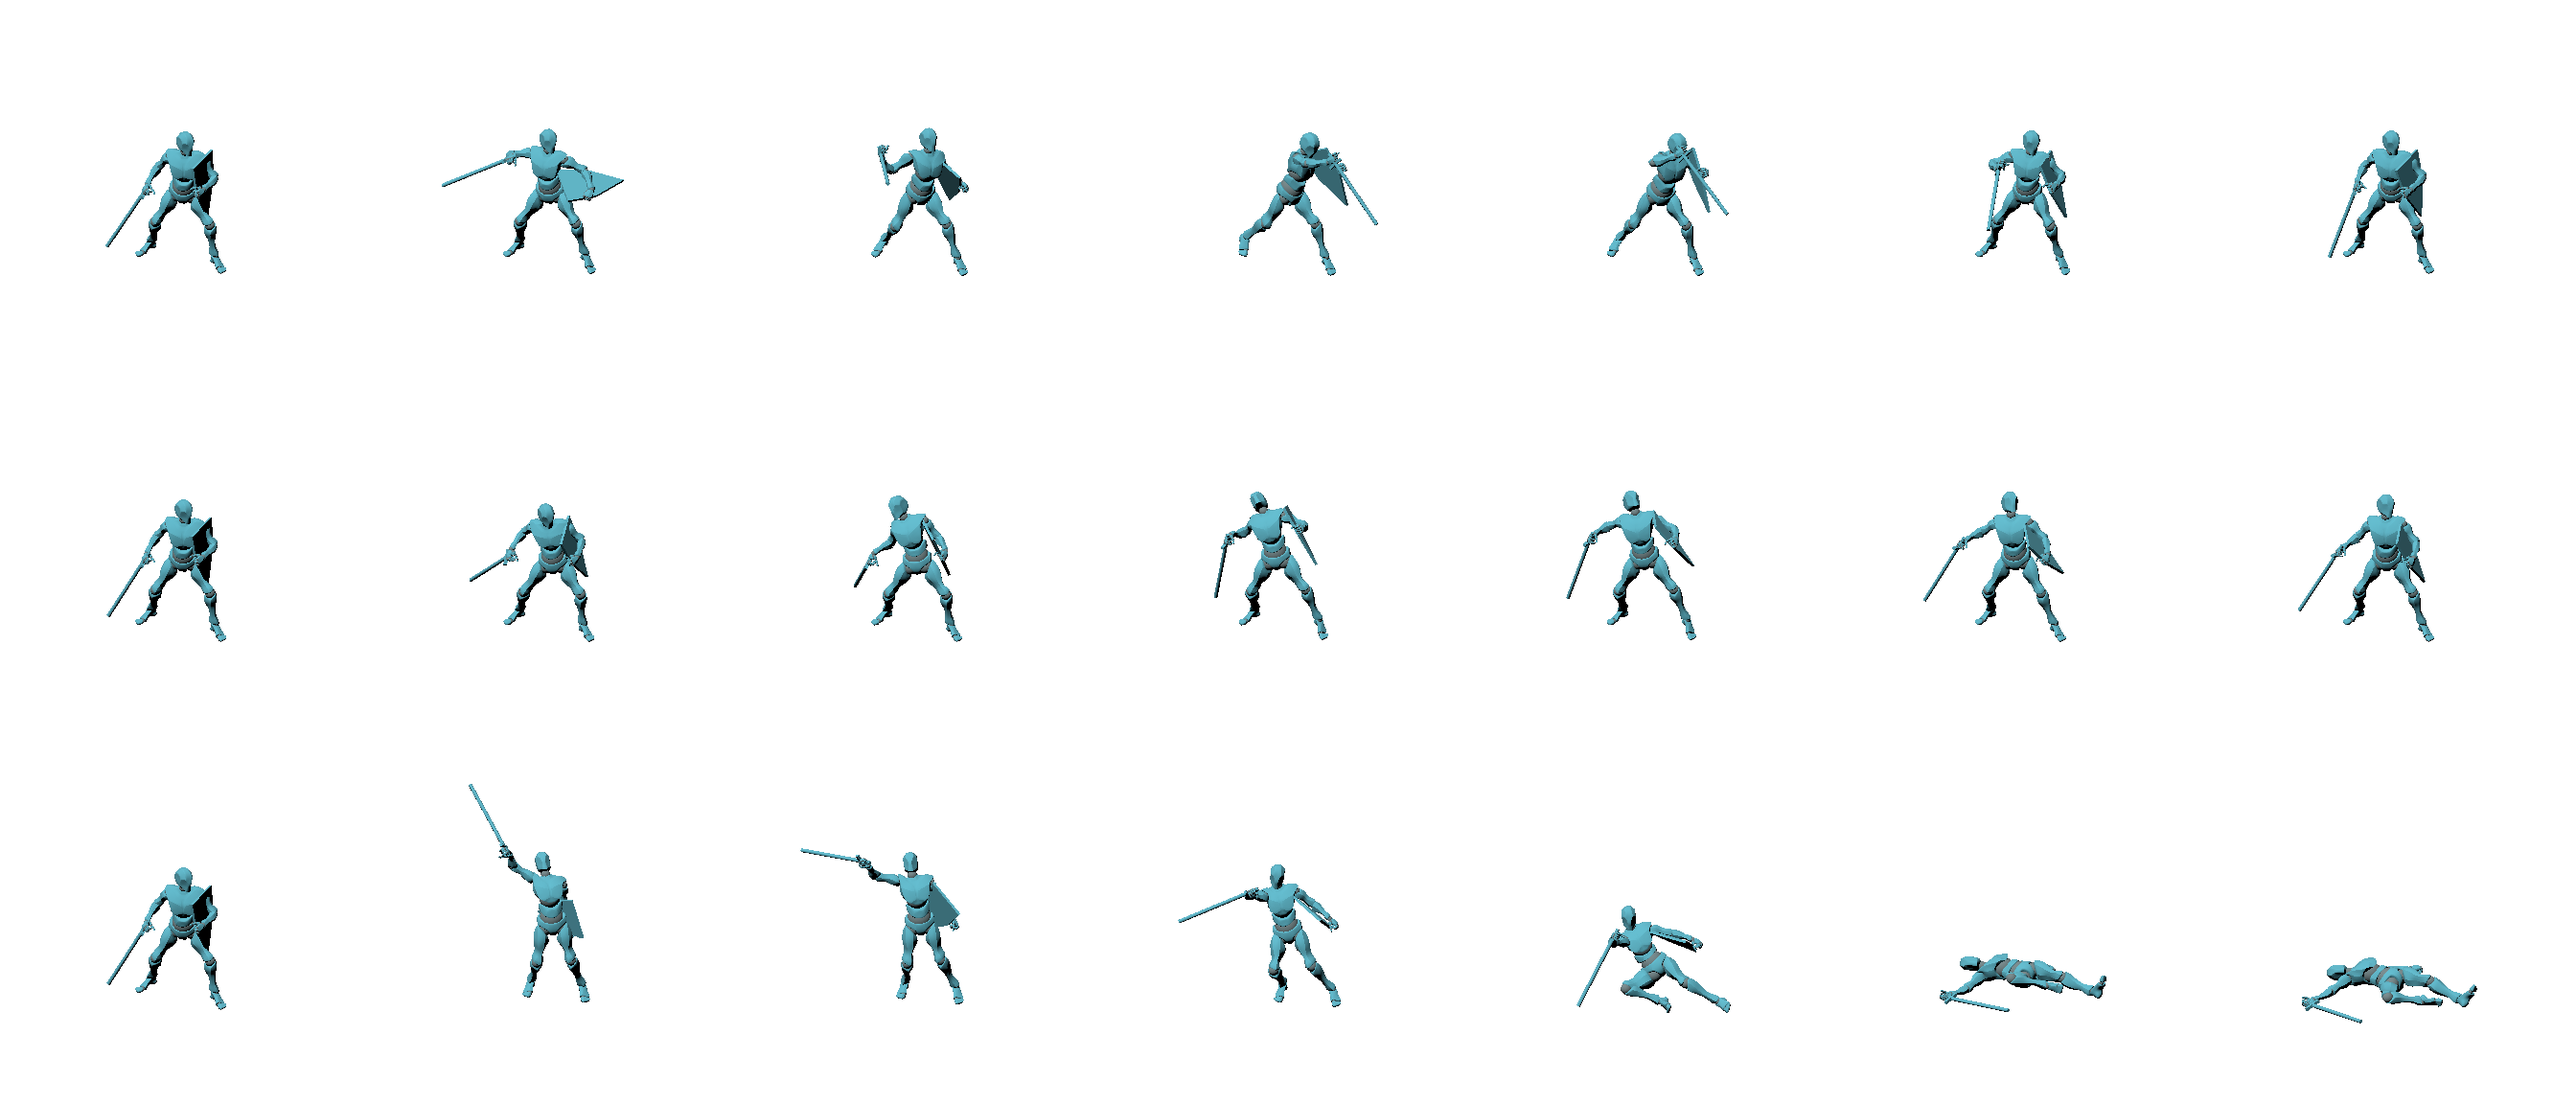
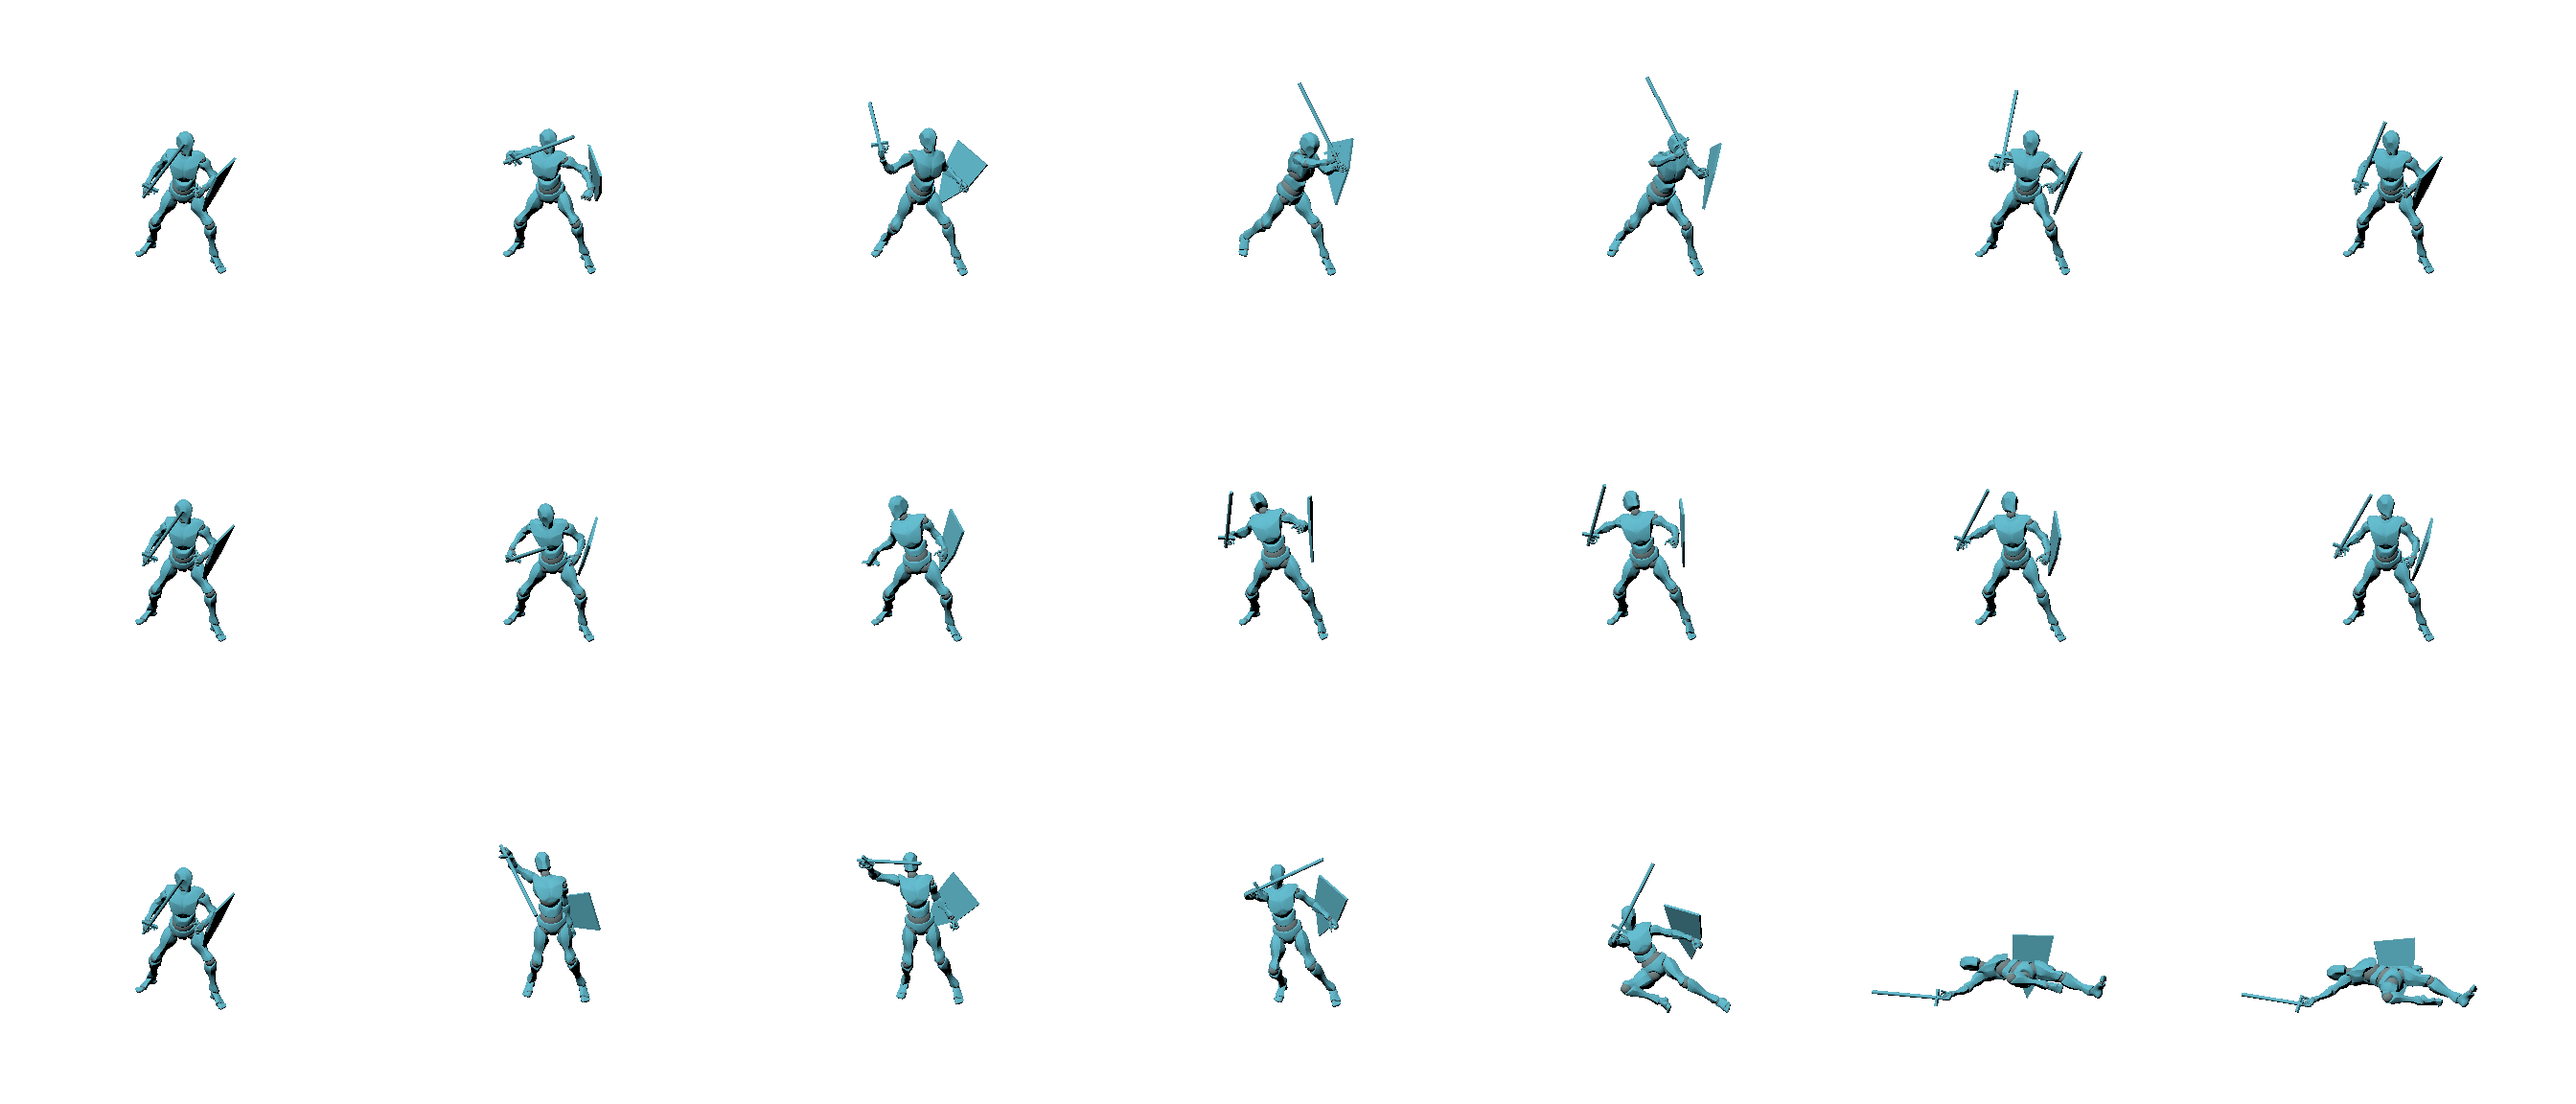
El atrezo del maniquí se coloca con la anatomía en cada fotograma
La espada colgada con un giro a ojo sacaba la hoja por el meñique, hacia
abajo, y el antebrazo atravesaba el escudo. Ahora la espada sigue la línea de
los nudillos con la hoja hacia el índice, y el escudo cuelga por fuera del
antebrazo izquierdo, separado de él y con la punta abajo.

diff --git a/tools/art/poses.ts b/tools/art/poses.ts
@@ -119,48 +119,29 @@ function puntoMasBajo(model) {
 
 /**
  * El atrezo del maniquí: una espada (un palo con guarda) en la mano derecha y un
- * escudo de cometa plano en el antebrazo izquierdo, colgados de sus huesos para
- * que sigan cada clip. Con el arma dibujada en la referencia, el modelo de
- * imagen copia su largo y su ángulo en vez de inventarlos (como la lanza del
- * jinete en `montura/escena.js`). Gris como el maniquí: dice forma, no aspecto.
+ * escudo de cometa plano en el antebrazo izquierdo. Con el arma dibujada en la
+ * referencia, el modelo de imagen copia su largo y su ángulo en vez de
+ * inventarlos (como la lanza del jinete en `montura/escena.js`). Gris como el
+ * maniquí: dice forma, no aspecto.
  *
- * Los giros y posiciones van en el sistema del hueso, en centímetros; se
- * ajustan mirando el render (`HEROES_ATREZO` los sobrescribe para probar).
+ * No se cuelgan del hueso con un giro elegido a ojo (la primera vez salió la
+ * hoja por el lado del meñique): se colocan en cada fotograma con la anatomía.
+ *  - La espada va por la línea de los nudillos, del meñique al índice, que es el
+ *    eje del puño cerrado; la hoja sale por el lado del índice y el pulgar.
+ *  - El escudo cuelga por fuera del antebrazo izquierdo, separado de él, con el
+ *    antebrazo cruzando su cara interior y la punta hacia abajo.
  */
-const AJUSTE_ATREZO = (() => {
-  const base = {
-    // La hoja sale hacia el lado del pulgar: en el ataque prolonga el brazo
-    // hacia el enemigo y en reposo apunta abajo y adelante (elegida entre los
-    // cuatro ejes posibles mirando el render).
-    espada: { largo: 0.85, giro: [0, 0, Math.PI / 2], pos: [0, 8, 0] },
-    // Plano, vertical y con la punta abajo, por fuera del antebrazo.
-    escudo: { giro: [0, 0, Math.PI / 2], pos: [0, 12, 6] },
-  };
-  const env = process.env.HEROES_ATREZO;
-  return env === undefined ? base : { ...base, ...(JSON.parse(env) as Partial<typeof base>) };
-})();
-
 const ATREZO = `
-function ponerAtrezo(model, prefijo, ajuste) {
+function crearAtrezo(model) {
   let material = null;
   model.traverse((n) => { if (!material && n.isMesh) material = Array.isArray(n.material) ? n.material[0] : n.material; });
-  const hueso = (nombre) => {
-    const h = model.getObjectByName(prefijo + nombre);
-    if (!h) throw new Error('el rig no tiene el hueso ' + prefijo + nombre);
-    return h;
-  };
   const espada = new THREE.Group();
-  const hoja = new THREE.Mesh(new THREE.CylinderGeometry(0.022, 0.022, ajuste.espada.largo, 8), material);
-  hoja.position.y = ajuste.espada.largo / 2 + 0.07;
+  const hoja = new THREE.Mesh(new THREE.CylinderGeometry(0.022, 0.022, 0.85, 8), material);
+  hoja.position.y = 0.085 + 0.425;
   const guarda = new THREE.Mesh(new THREE.BoxGeometry(0.2, 0.03, 0.035), material);
-  guarda.position.y = 0.07;
-  const puño = new THREE.Mesh(new THREE.CylinderGeometry(0.02, 0.02, 0.14, 8), material);
+  guarda.position.y = 0.085;
+  const puño = new THREE.Mesh(new THREE.CylinderGeometry(0.02, 0.02, 0.17, 8), material);
   espada.add(hoja, guarda, puño);
-  espada.scale.setScalar(100);
-  espada.rotation.set(...ajuste.espada.giro);
-  espada.position.set(...ajuste.espada.pos);
-  hueso('RightHand').add(espada);
-
   const forma = new THREE.Shape();
   forma.moveTo(-0.24, 0.3);
   forma.lineTo(0.24, 0.3);
@@ -168,13 +149,32 @@ function ponerAtrezo(model, prefijo, ajuste) {
   forma.lineTo(0, -0.45);
   forma.lineTo(-0.2, -0.05);
   forma.closePath();
-  const plano = new THREE.Mesh(new THREE.ExtrudeGeometry(forma, { depth: 0.03, bevelEnabled: false }), material);
-  const escudo = new THREE.Group();
-  escudo.add(plano);
-  escudo.scale.setScalar(100);
-  escudo.rotation.set(...ajuste.escudo.giro);
-  escudo.position.set(...ajuste.escudo.pos);
-  hueso('LeftForeArm').add(escudo);
+  const escudo = new THREE.Mesh(new THREE.ExtrudeGeometry(forma, { depth: 0.03, bevelEnabled: false }), material);
+  return { espada, escudo };
+}
+function colocarAtrezo(model, prefijo, atrezo) {
+  const p = (nombre) => {
+    const h = model.getObjectByName(prefijo + nombre);
+    if (!h) throw new Error('el rig no tiene el hueso ' + prefijo + nombre);
+    return h.getWorldPosition(new THREE.Vector3());
+  };
+  // La espada: el puño en el hueco de los dedos, la hoja hacia el índice.
+  const indice = p('RightHandIndex1'), meñique = p('RightHandPinky1');
+  const eje = indice.clone().sub(meñique).normalize();
+  const centro = indice.clone().add(meñique).multiplyScalar(0.5).lerp(p('RightHandMiddle2'), 0.5);
+  atrezo.espada.position.copy(centro);
+  atrezo.espada.quaternion.setFromUnitVectors(new THREE.Vector3(0, 1, 0), eje);
+  // El escudo: normal hacia fuera del cuerpo, perpendicular al antebrazo.
+  const codo = p('LeftForeArm'), muñeca = p('LeftHand'), pecho = p('Spine2');
+  const brazo = muñeca.clone().sub(codo).normalize();
+  const medio = codo.clone().add(muñeca).multiplyScalar(0.5);
+  const fuera = medio.clone().sub(pecho);
+  fuera.addScaledVector(brazo, -fuera.dot(brazo)).normalize();
+  const arriba = new THREE.Vector3().crossVectors(fuera, brazo).normalize();
+  if (arriba.y < 0) arriba.negate();
+  const lado = new THREE.Vector3().crossVectors(arriba, fuera).normalize();
+  atrezo.escudo.quaternion.setFromRotationMatrix(new THREE.Matrix4().makeBasis(lado, arriba, fuera));
+  atrezo.escudo.position.copy(medio).addScaledVector(fuera, 0.07).addScaledVector(arriba, 0.04);
 }
 `;
 
@@ -239,6 +239,10 @@ async function prepararForge(
       `    pivot.position.y = 0;
     scene.updateMatrixWorld(true);
     pivot.position.y = state.suelo - puntoMasBajo(state.model);
+    if (state.atrezo) {
+      scene.updateMatrixWorld(true);
+      colocarAtrezo(state.model, state.bonePrefix, state.atrezo);
+    }
     renderer.render(scene, camera);
     out.push(`,
     ],
@@ -257,10 +261,11 @@ async function prepararForge(
     accionGolpe.play();
     golpe = { accion: accionGolpe, fin: clipGolpe.duration - 1e-4, muerte: action };
   }
-  if (${atrezo}) ponerAtrezo(model, bonePrefix, ${JSON.stringify(AJUSTE_ATREZO)});
+  const atrezo = ${atrezo} ? crearAtrezo(model) : null;
+  if (atrezo) scene.add(atrezo.espada, atrezo.escudo);
   scene.updateMatrixWorld(true);
   const suelo = puntoMasBajo(model);
-  Object.assign(state, { renderer, scene, camera, pivot, mixer, clip, model, animId, golpe, suelo });`,
+  Object.assign(state, { renderer, scene, camera, pivot, mixer, clip, model, animId, golpe, suelo, atrezo, bonePrefix });`,
     ],
     [
       '    mixer.setTime(Math.min(clip.duration, frameStep * f));',
